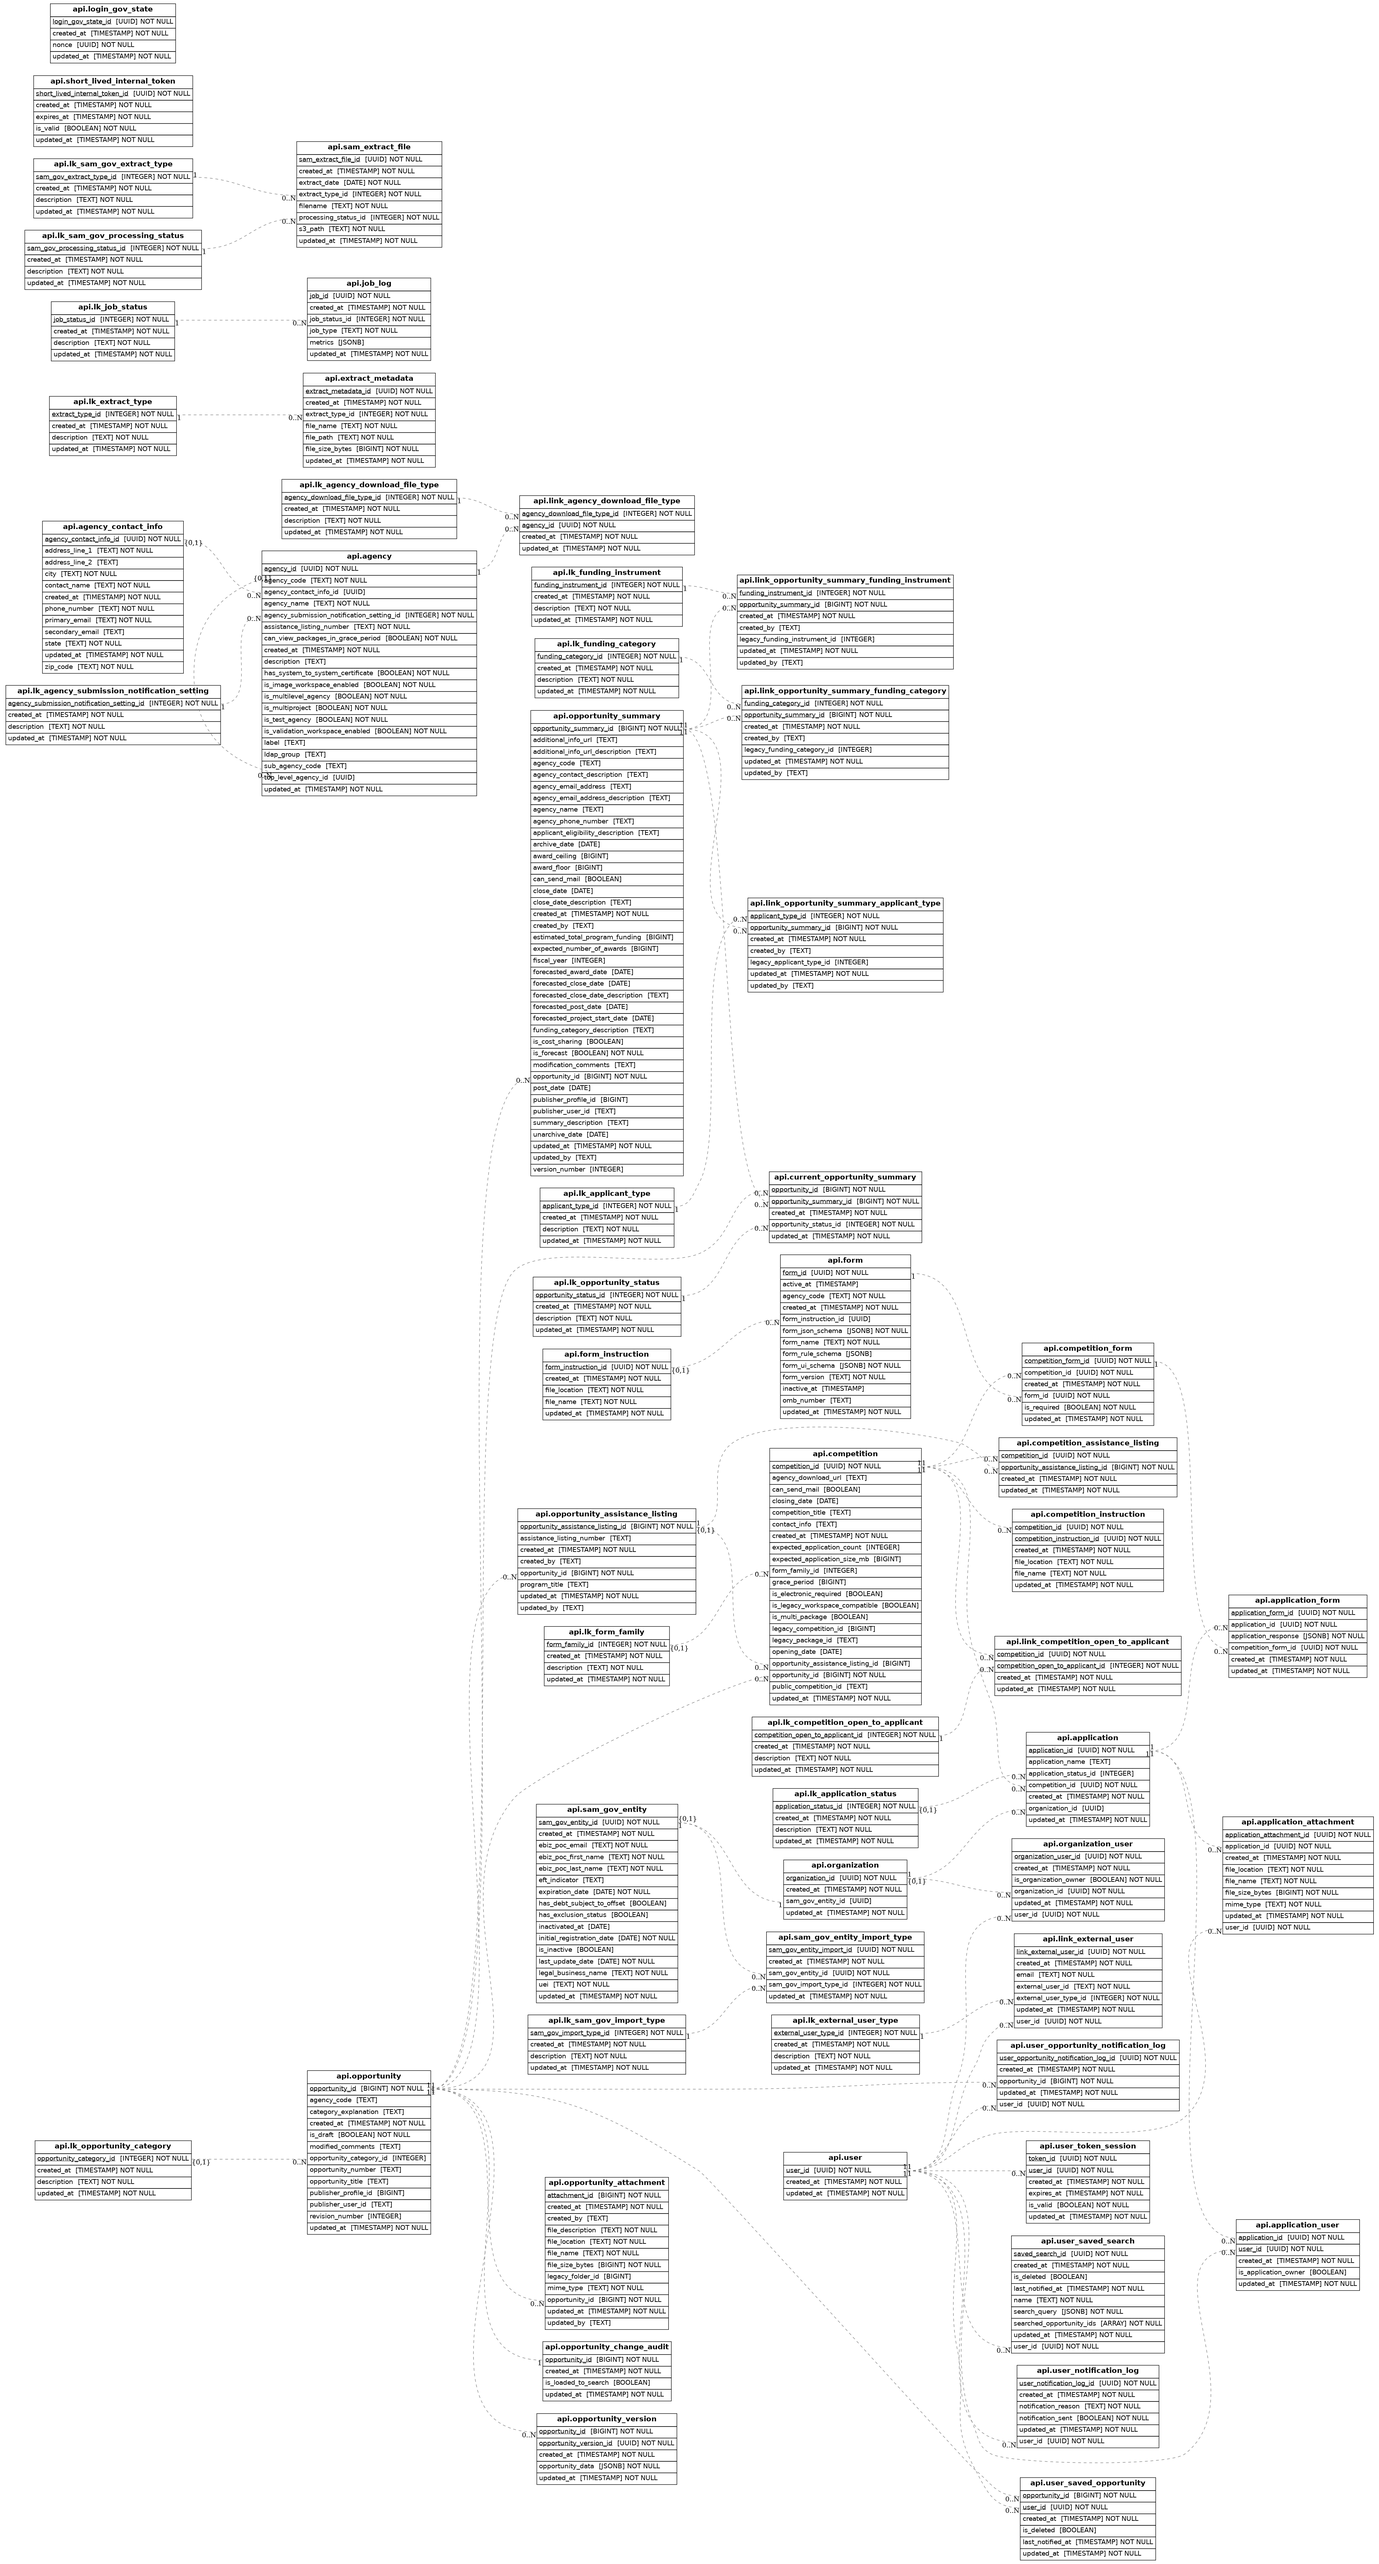
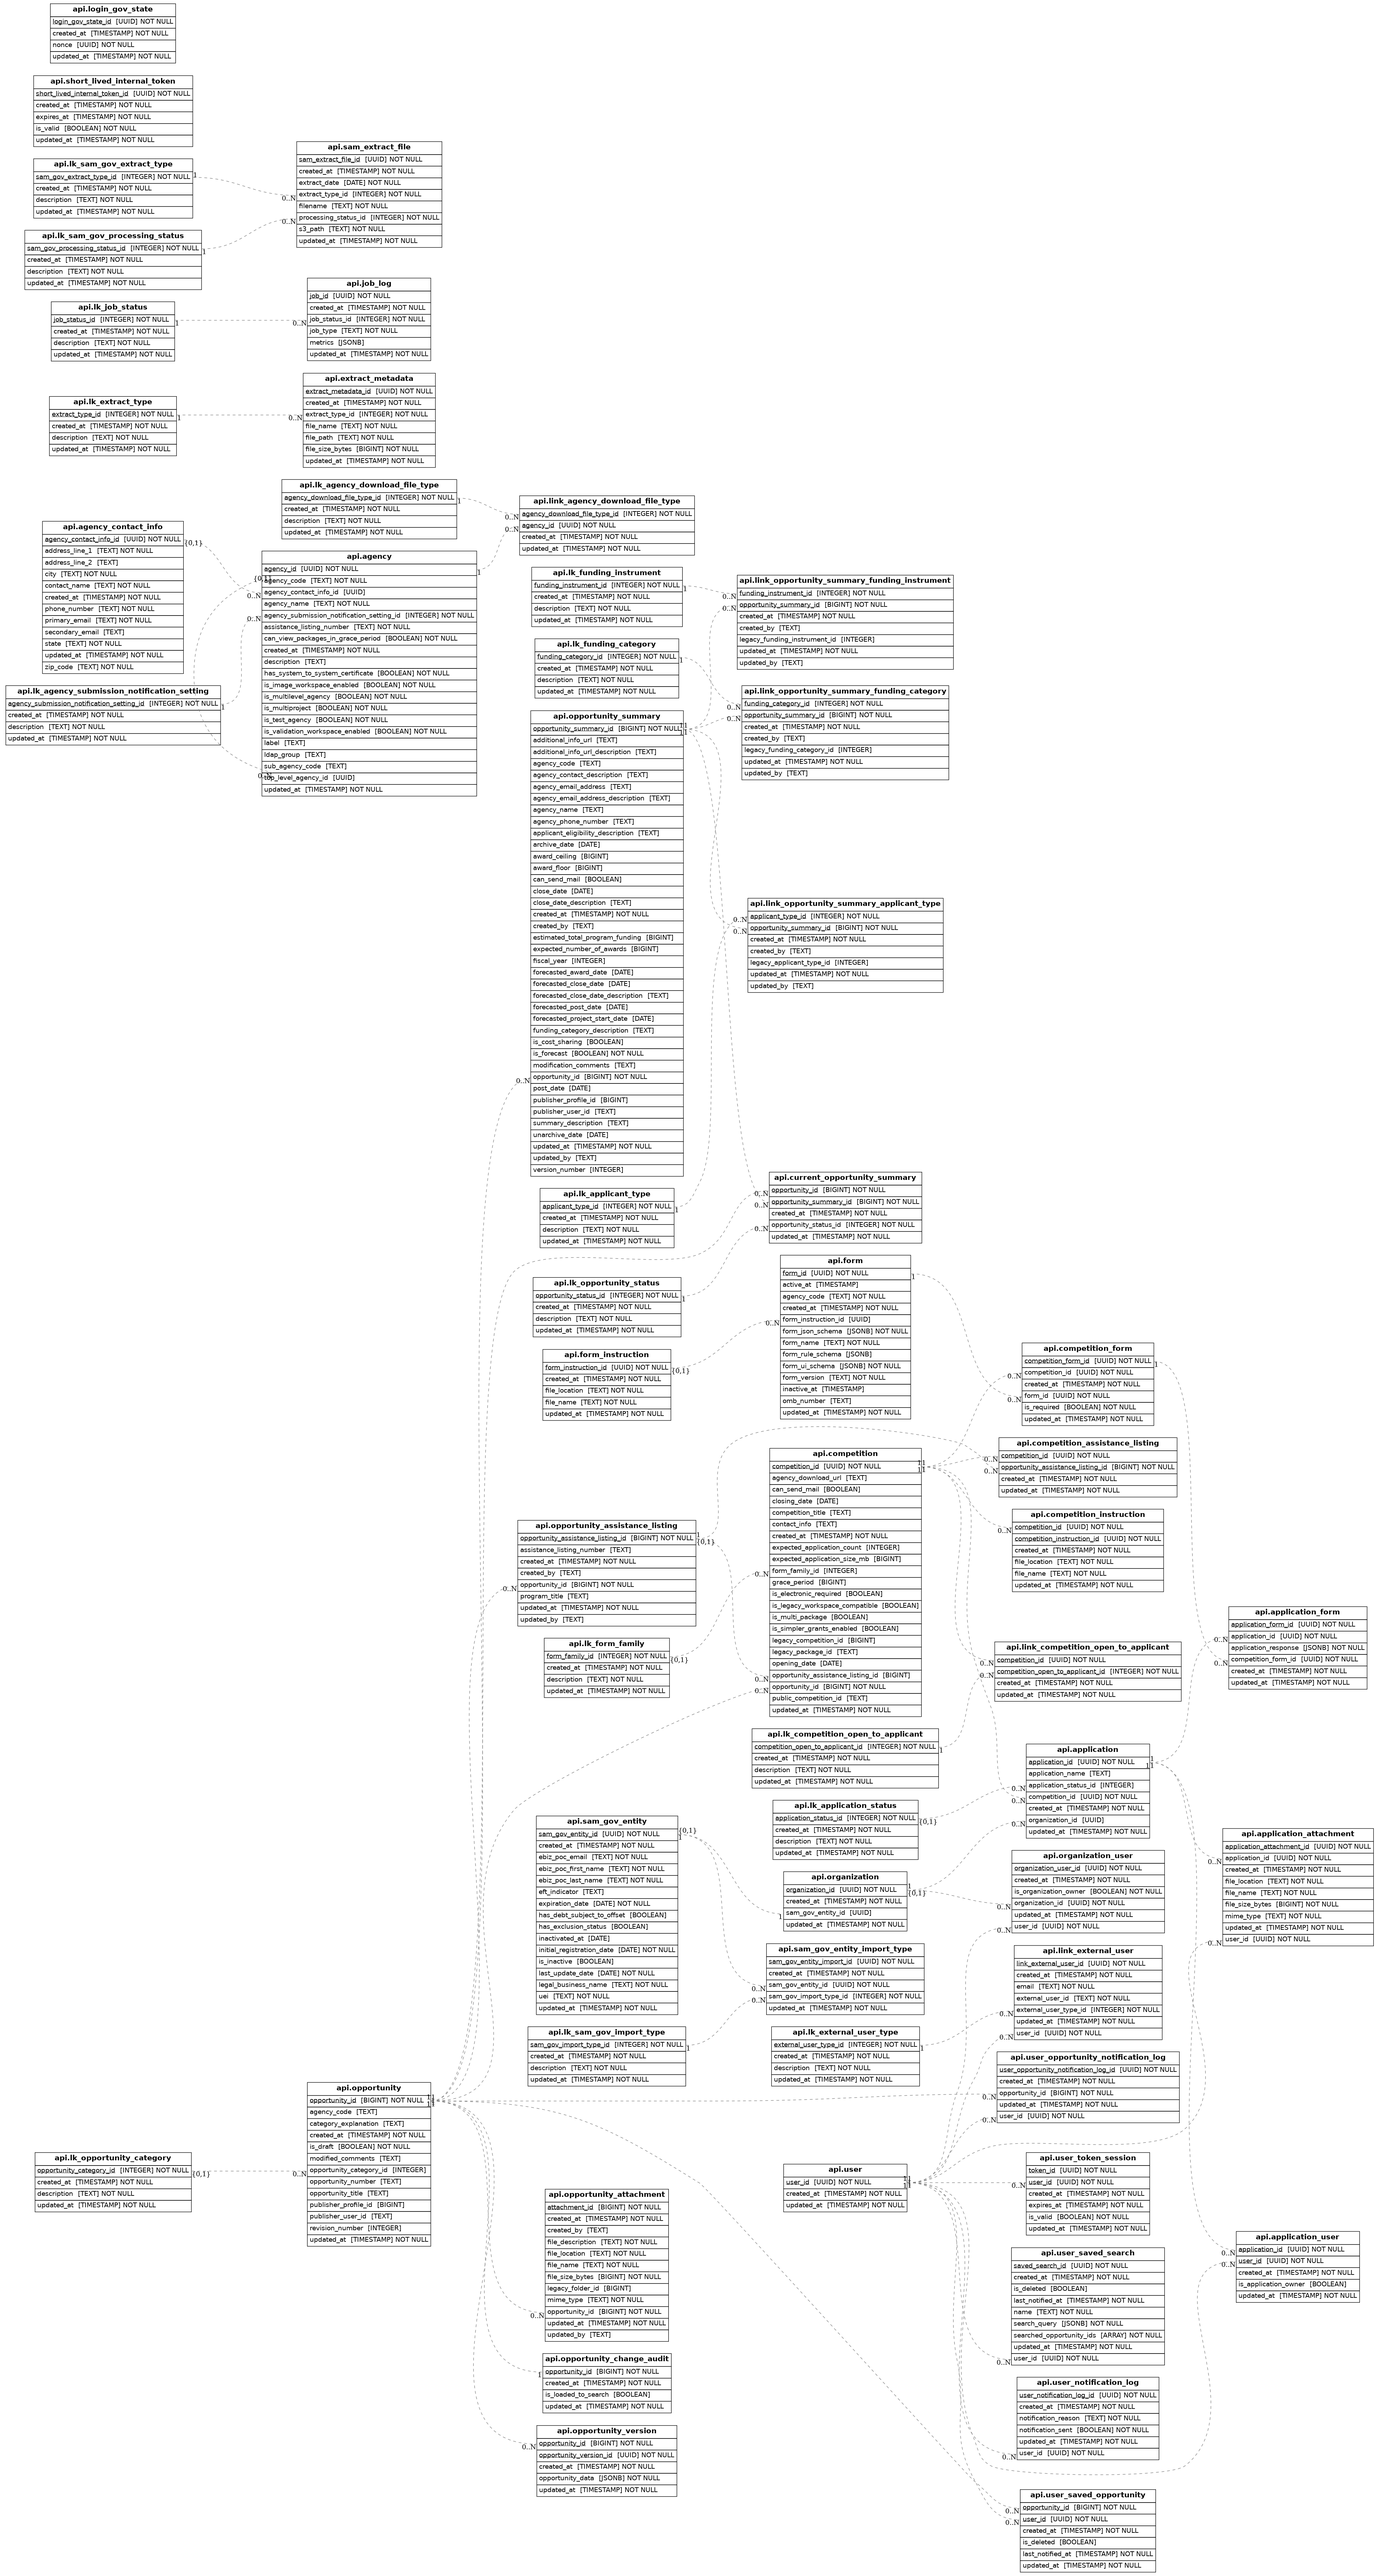
[Issue #5426] Add is_simpler_grants_enabled flag and logic check (#5458)
## Summary

Fixes #5426

## Changes proposed

Add `is_simpler_grants_enabled` flag to competition table.
Add check `is_open` for a competition
Add migration and unit tests

## Context for reviewers

To ensure we are only showing the "Start an Application" button on the
opportunity page for available Simpler Opportunities (pilot), we need to
create some backend logic that the frontend team can read.

## Validation steps

See migration and tests

diff --git a/api/tests/src/api/competition_alpha/test_competition_route_get.py b/api/tests/src/api/competition_alpha/test_competition_route_get.py
@@ -193,6 +193,100 @@ def test_competition_get_200_is_open(
     assert response_competition["is_open"] == expected_is_open
 
 
+def test_competition_get_200_is_simpler_grants_enabled_false(
+    client,
+    api_auth_token,
+    enable_factory_create,
+):
+    """Test that competitions with is_simpler_grants_enabled=False are not open"""
+    competition = CompetitionFactory.create(
+        is_simpler_grants_enabled=False,
+    )
+
+    resp = client.get(
+        f"/alpha/competitions/{competition.competition_id}", headers={"X-Auth": api_auth_token}
+    )
+
+    assert resp.status_code == 200
+    response_competition = resp.get_json()["data"]
+    assert response_competition["is_open"] is False
+
+
+def test_competition_get_200_is_simpler_grants_enabled_null(
+    client,
+    api_auth_token,
+    enable_factory_create,
+):
+    """Test that competitions with is_simpler_grants_enabled=None are not open"""
+    competition = CompetitionFactory.create(
+        is_simpler_grants_enabled=None,
+    )
+
+    resp = client.get(
+        f"/alpha/competitions/{competition.competition_id}", headers={"X-Auth": api_auth_token}
+    )
+
+    assert resp.status_code == 200
+    response_competition = resp.get_json()["data"]
+    assert response_competition["is_open"] is False
+
+
+@freeze_time("2025-01-15 12:00:00", tz_offset=0)
+def test_competition_get_200_is_simpler_grants_enabled_true_and_date_checks(
+    client,
+    api_auth_token,
+    enable_factory_create,
+):
+    """Test that competitions with is_simpler_grants_enabled=True still respect date checks"""
+    # Competition that would be open date-wise but simpler grants disabled
+    competition_disabled = CompetitionFactory.create(
+        opening_date=date(2025, 1, 1),
+        closing_date=date(2025, 12, 31),
+        grace_period=10,
+        is_simpler_grants_enabled=False,
+    )
+
+    # Competition that is enabled and within dates
+    competition_enabled_open = CompetitionFactory.create(
+        opening_date=date(2025, 1, 1),
+        closing_date=date(2025, 12, 31),
+        grace_period=10,
+        is_simpler_grants_enabled=True,
+    )
+
+    # Competition that is enabled but outside dates
+    competition_enabled_closed = CompetitionFactory.create(
+        opening_date=date(2025, 1, 16),  # Opens tomorrow
+        closing_date=date(2025, 12, 31),
+        grace_period=10,
+        is_simpler_grants_enabled=True,
+    )
+
+    # Test disabled competition
+    resp = client.get(
+        f"/alpha/competitions/{competition_disabled.competition_id}",
+        headers={"X-Auth": api_auth_token},
+    )
+    assert resp.status_code == 200
+    assert resp.get_json()["data"]["is_open"] is False
+
+    # Test enabled and open competition
+    resp = client.get(
+        f"/alpha/competitions/{competition_enabled_open.competition_id}",
+        headers={"X-Auth": api_auth_token},
+    )
+    assert resp.status_code == 200
+    assert resp.get_json()["data"]["is_open"] is True
+
+    # Test enabled but closed competition
+    resp = client.get(
+        f"/alpha/competitions/{competition_enabled_closed.competition_id}",
+        headers={"X-Auth": api_auth_token},
+    )
+    assert resp.status_code == 200
+    assert resp.get_json()["data"]["is_open"] is False
+
+
 def test_competition_get_404_not_found(client, api_auth_token):
     competition_id = uuid.uuid4()
     resp = client.get(f"/alpha/competitions/{competition_id}", headers={"X-Auth": api_auth_token})

diff --git a/api/src/db/models/competition_models.py b/api/src/db/models/competition_models.py
@@ -72,6 +72,7 @@ class Competition(ApiSchemaTable, TimestampMixin):
     agency_download_url: Mapped[str | None]
     is_legacy_workspace_compatible: Mapped[bool | None]
     can_send_mail: Mapped[bool | None]
+    is_simpler_grants_enabled: Mapped[bool | None] = mapped_column(default=False)
 
     competition_forms: Mapped[list["CompetitionForm"]] = relationship(
         "CompetitionForm", uselist=True, back_populates="competition", cascade="all, delete-orphan"
@@ -90,13 +91,18 @@ class Competition(ApiSchemaTable, TimestampMixin):
 
     @property
     def is_open(self) -> bool:
-        """The competition is open if the following are both true:
+        """The competition is open if the following are all true:
+        * The competition has is_simpler_grants_enabled set to True
         * It is on/after the competition opening date OR the opening date is null
         * It is on/before the competition close date + grace period OR the close date is null
 
         Effectively, if the date is null, the check isn't necessary, a competition
         with both opening and closing as null is open regardless of date.
         """
+
+        # Check if simpler grants is enabled for this competition first
+        if self.is_simpler_grants_enabled is not True:
+            return False
 
         current_date = get_now_us_eastern_date()
 

diff --git a/api/src/db/migrations/versions/2025_06_25_add_is_simpler_grants_enabled_to_.py b/api/src/db/migrations/versions/2025_06_25_add_is_simpler_grants_enabled_to_.py
@@ -1,0 +1,32 @@
+"""add is_simpler_grants_enabled to competition table
+
+Revision ID: b5946cdc3859
+Revises: 9439bffdbc52
+Create Date: 2025-06-25 15:33:17.619598
+
+"""
+
+import sqlalchemy as sa
+from alembic import op
+
+# revision identifiers, used by Alembic.
+revision = "b5946cdc3859"
+down_revision = "9439bffdbc52"
+branch_labels = None
+depends_on = None
+
+
+def upgrade():
+    # ### commands auto generated by Alembic - please adjust! ###
+    op.add_column(
+        "competition",
+        sa.Column("is_simpler_grants_enabled", sa.Boolean(), nullable=True),
+        schema="api",
+    )
+    # ### end Alembic commands ###
+
+
+def downgrade():
+    # ### commands auto generated by Alembic - please adjust! ###
+    op.drop_column("competition", "is_simpler_grants_enabled", schema="api")
+    # ### end Alembic commands ###

diff --git a/api/tests/src/db/models/factories.py b/api/tests/src/db/models/factories.py
@@ -994,6 +994,8 @@ class CompetitionFactory(BaseFactory):
         unique=True,
     )
 
+    is_simpler_grants_enabled = True
+
     class Params:
         with_instruction = factory.Trait(
             competition_instructions=factory.RelatedFactoryList(
